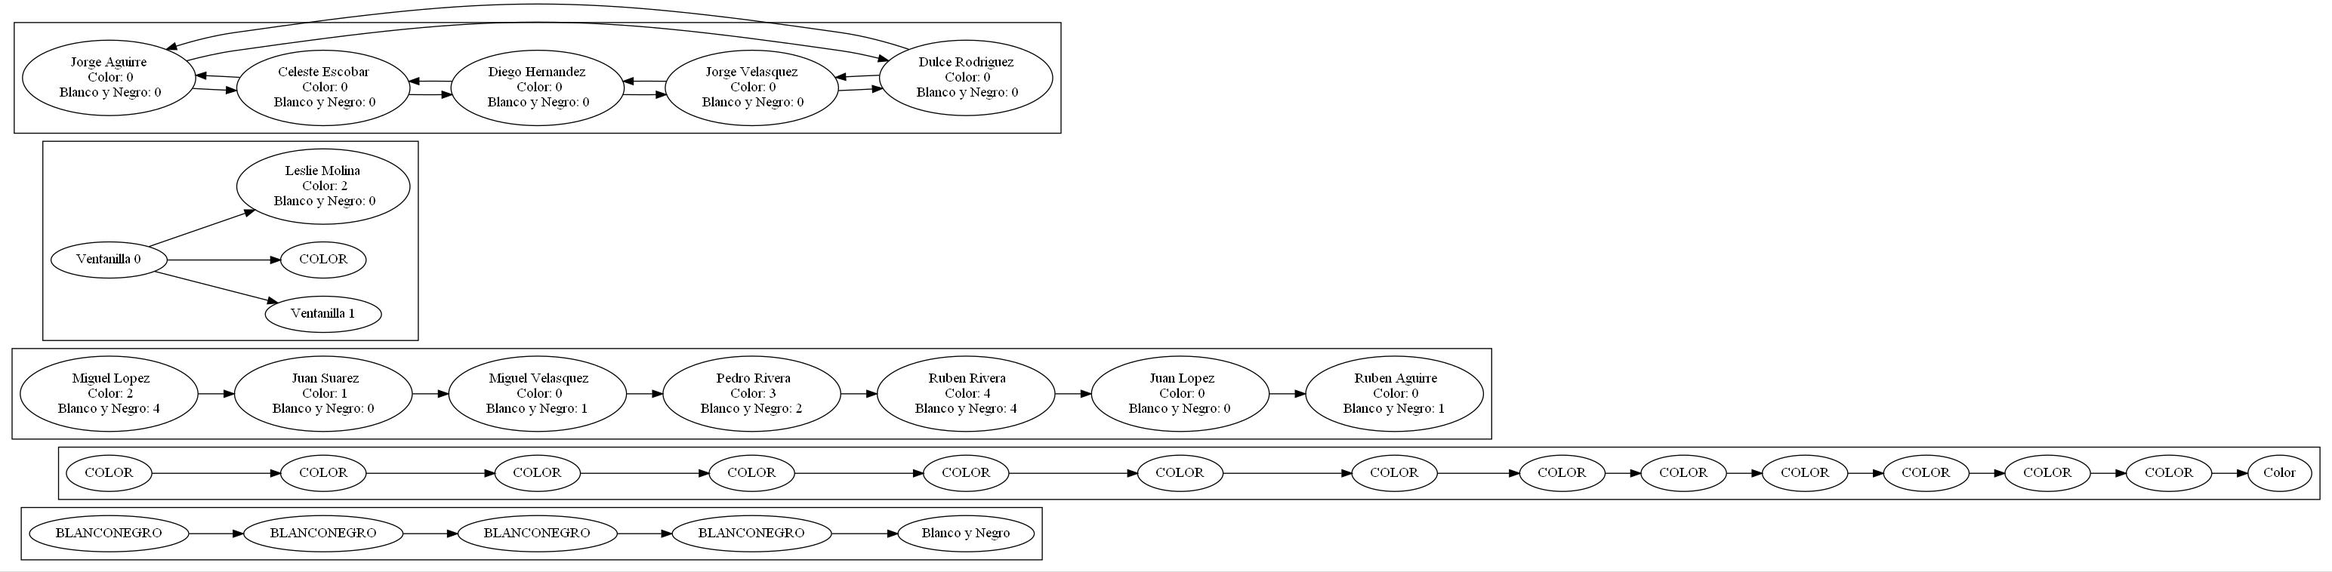
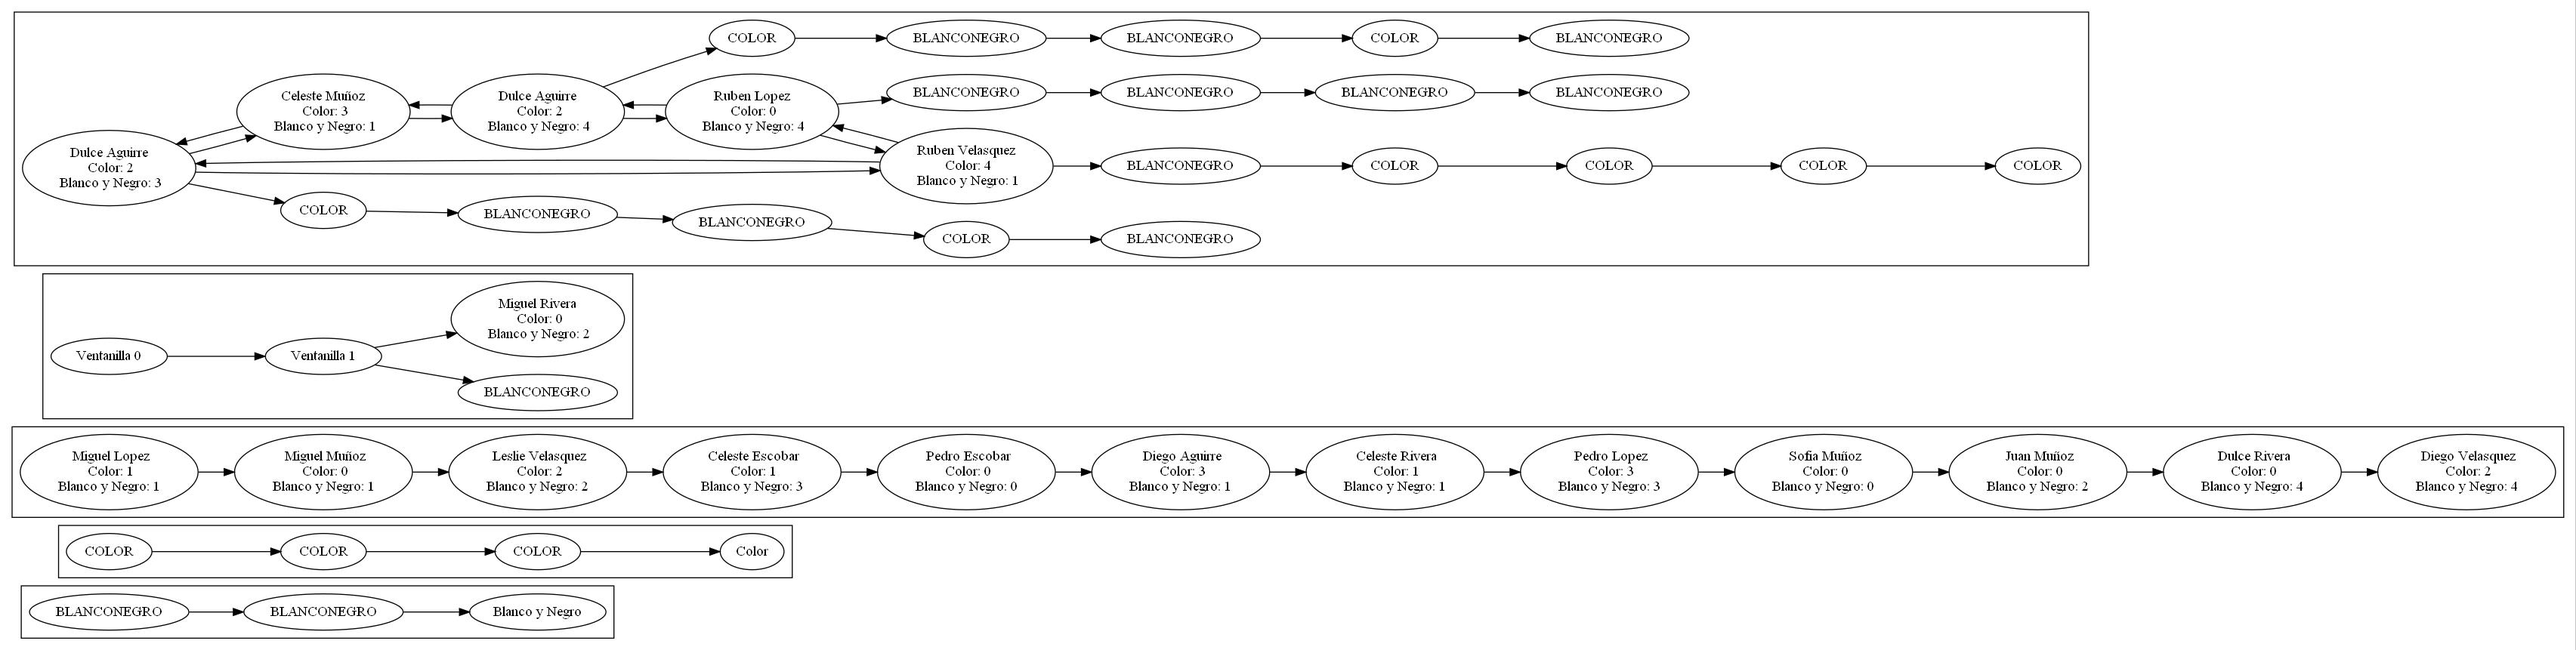
graficar espera

diff --git a/src/Impl/ListaClientesEspera.java b/src/Impl/ListaClientesEspera.java
@@ -7,7 +7,9 @@ package Impl;
 
 import Estructuras.DoubleCircularList;
 import Estructuras.NodoDoble;
+import Estructuras.NodoSimple;
 import Modelos.Cliente;
+import Modelos.Imagen;
 
 /**
  *
@@ -22,8 +24,8 @@ public class ListaClientesEspera extends DoubleCircularList<Cliente>{
             do {
                 str.append(aux.dato.listaImages.graph(aux.dato.id));
                 str.append(aux.dato.id).append("[label=\"").append(aux.dato.nombre)
-                        .append("\n Color: ").append(aux.dato.imgColor)
-                        .append("\n Blanco y Negro: ").append(aux.dato.imgBlancoNegro)
+                        .append("\n Color: ").append(aux.dato.imgColorConst)
+                        .append("\n Blanco y Negro: ").append(aux.dato.imgBlancoNegroConst)
                         .append("\"];\n");
                 if (aux.anterior != null)
                     str.append(aux.dato.id).append("->")
@@ -33,22 +35,33 @@ public class ListaClientesEspera extends DoubleCircularList<Cliente>{
                     str.append(aux.dato.id).append("->")
                             .append(aux.siguiente.dato.id).append(";\n");
 
-                aux = aux.siguiente;
+            aux = aux.siguiente;
             } while (aux != this.head);
         }
         return str.toString();
     }
     
-    public Cliente findClientById(String id){
-            if(!isVoid()){
-
-            NodoDoble<Cliente> aux = this.head;
-            do {
-                if (aux.dato.id.equals(id))
-                    return aux.dato;
-                aux = aux.siguiente;
-            } while (aux != this.head);
-        }
-        return null;
+    public void appendImageToCliente(String id, Imagen img){
+        if(!isVoid()){
+        NodoDoble<Cliente> aux = this.head;
+        do {
+            if (aux.dato.id.equals(id)){
+                aux.dato.listaImages.addToEnd(img);
+            }
+            aux = aux.siguiente;
+        } while (aux != this.head);
     }
+    }
+    
+//    public Cliente findClientById(String id){
+//        if(!isVoid()){
+//            NodoDoble<Cliente> aux = this.head;
+//            do {
+//                if (aux.dato.id.equals(id))
+//                    return aux.dato;
+//                aux = aux.siguiente;
+//            } while (aux != this.head);
+//        }
+//        return null;
+//    }
 }

diff --git a/src/Impl/ListaVentanillas.java b/src/Impl/ListaVentanillas.java
@@ -68,10 +68,10 @@ public class ListaVentanillas extends LinkedList<Ventanilla> {
             while(auxc != null){
                 if (auxc.dato.cliente != null){
                     if (auxc.dato.cliente.imgColor > 0){
-                        auxc.dato.pilaImagenes.push(new Imagen(TipoImagen.COLOR, auxc.dato.id));
+                        auxc.dato.pilaImagenes.push(new Imagen(TipoImagen.COLOR, auxc.dato.cliente.id));
                         auxc.dato.cliente.imgColor--;
                     }else if (auxc.dato.cliente.imgBlancoNegro > 0){
-                        auxc.dato.pilaImagenes.push(new Imagen(TipoImagen.BLANCONEGRO, auxc.dato.id));
+                        auxc.dato.pilaImagenes.push(new Imagen(TipoImagen.BLANCONEGRO, auxc.dato.cliente.id));
                         auxc.dato.cliente.imgBlancoNegro--;
                     }
                 }

diff --git a/src/edd/proyecto/fase1/EddProyectoFase1.java b/src/edd/proyecto/fase1/EddProyectoFase1.java
@@ -139,9 +139,12 @@ class Logic {
     
     public void execStep(){
         randomClientes();
+        blancoNegroImpresora.printImage(listaEspera);
         listaVentanillas.insertarClienteVentanilla(colaRecepcion.dequeue());
         listaVentanillas.ingresarUnElementoPila();
-        listaVentanillas.encolarImpresiones(colorImpresora.queue, blancoNegroImpresora.queue,listaEspera);
+        listaVentanillas.encolarImpresiones(colorImpresora.queue, blancoNegroImpresora.queue, listaEspera);
+        colorImpresora.printImage(listaEspera);
+        blancoNegroImpresora.printImage(listaEspera);
     }
     
     private void randomClientes(){

diff --git a/src/Modelos/Impresora.java b/src/Modelos/Impresora.java
@@ -6,8 +6,8 @@
 package Modelos;
 
 import Enums.TipoImagen;
-import Estructuras.Queue;
 import Impl.ColaImpresoras;
+import Impl.ListaClientesEspera;
 import edd.proyecto.fase1.EddProyectoFase1;
 
 /**
@@ -27,5 +27,11 @@ public class Impresora {
     
     public void addImage(Imagen img){
         this.queue.enqueue(img);
+    }
+    
+    public void printImage(ListaClientesEspera espera){
+        Imagen img = this.queue.dequeue();
+        if (img != null)
+            espera.appendImageToCliente(img.clientId, img); 
     }
 }

diff --git a/src/Impl/ColaImpresoras.java b/src/Impl/ColaImpresoras.java
@@ -44,7 +44,6 @@ public class ColaImpresoras extends Queue<Imagen>{
             if (this.last != null)
                 str.append(this.last.dato.id).append("-> ").append(tipoId).append(";\n");
         }
-            
         return str.toString();
     }
 }
